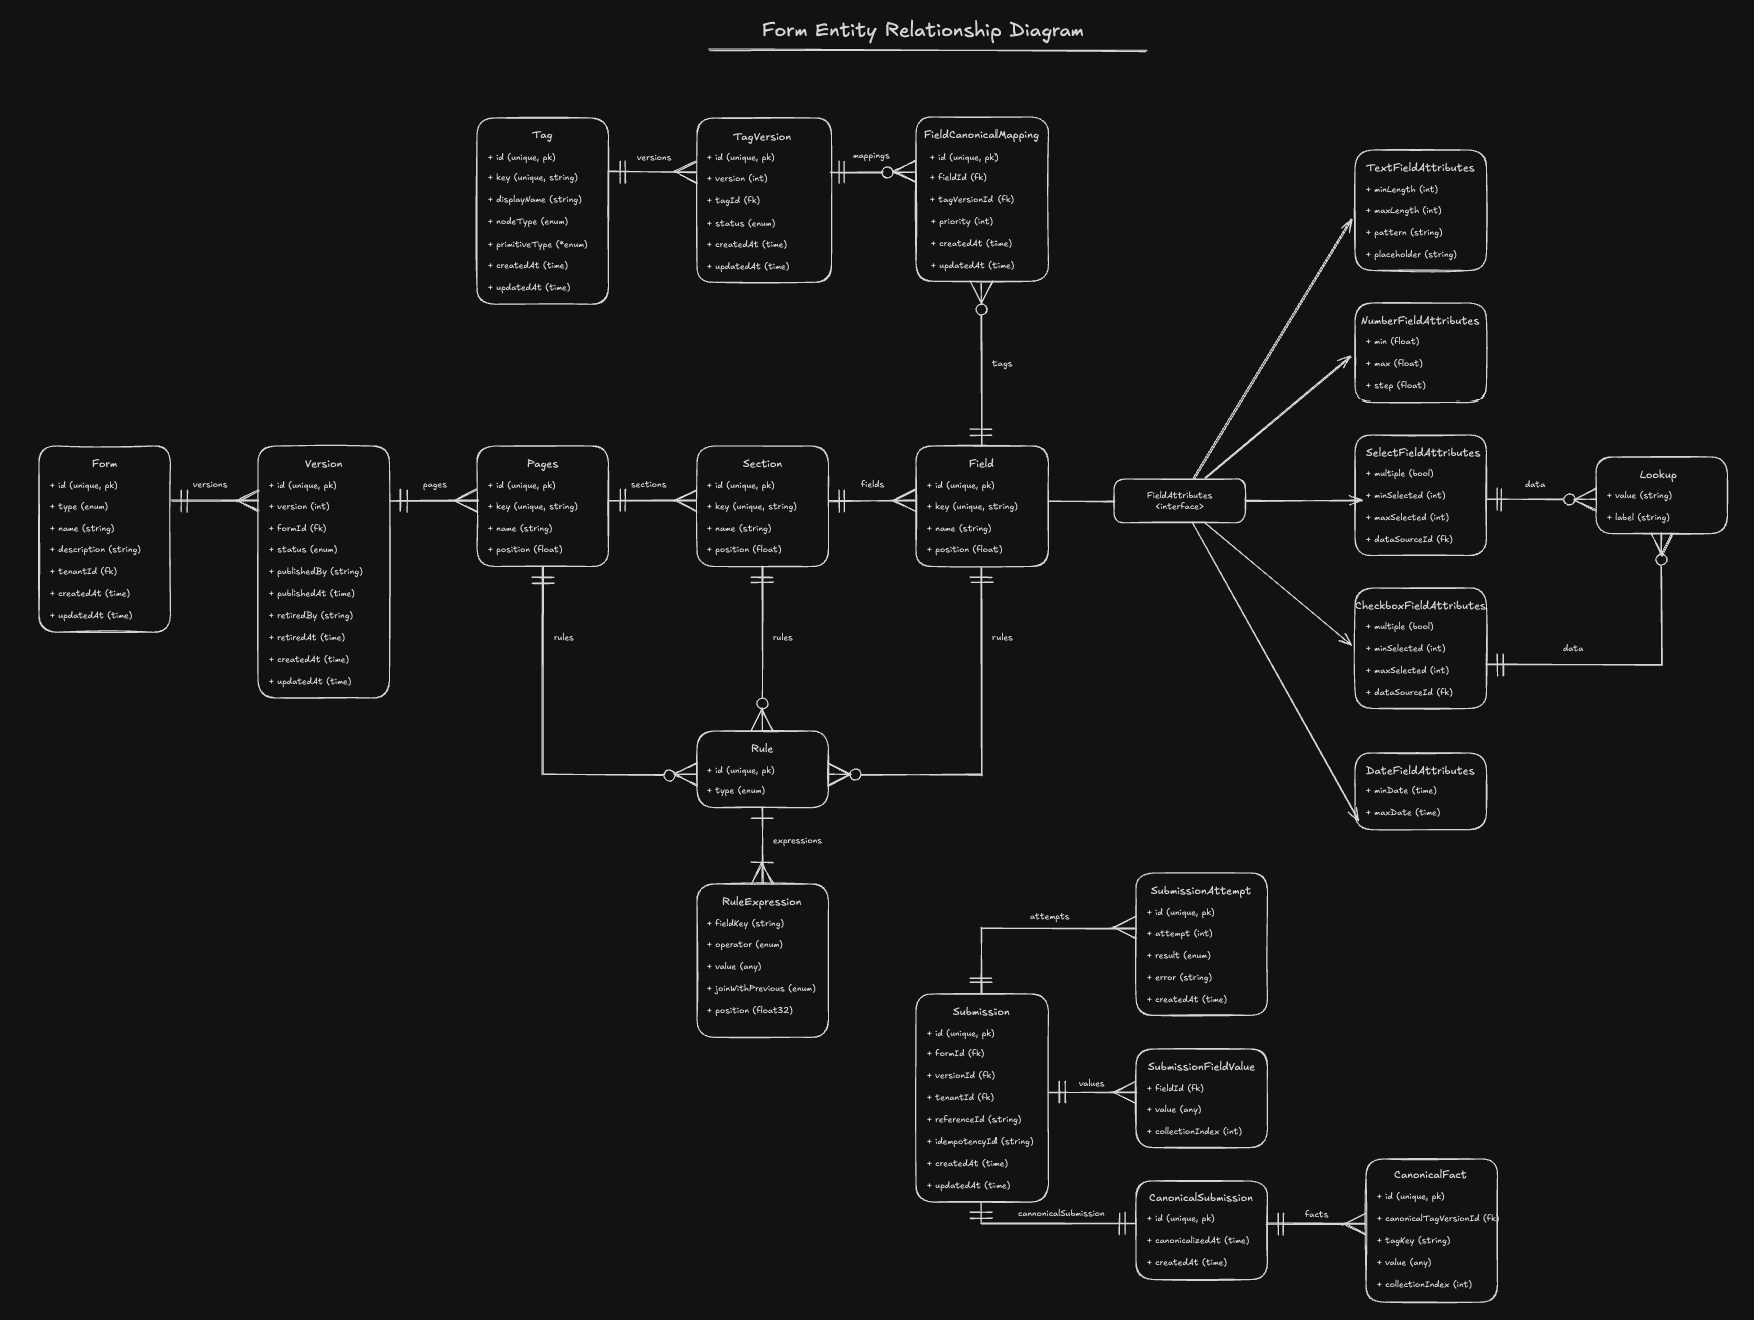
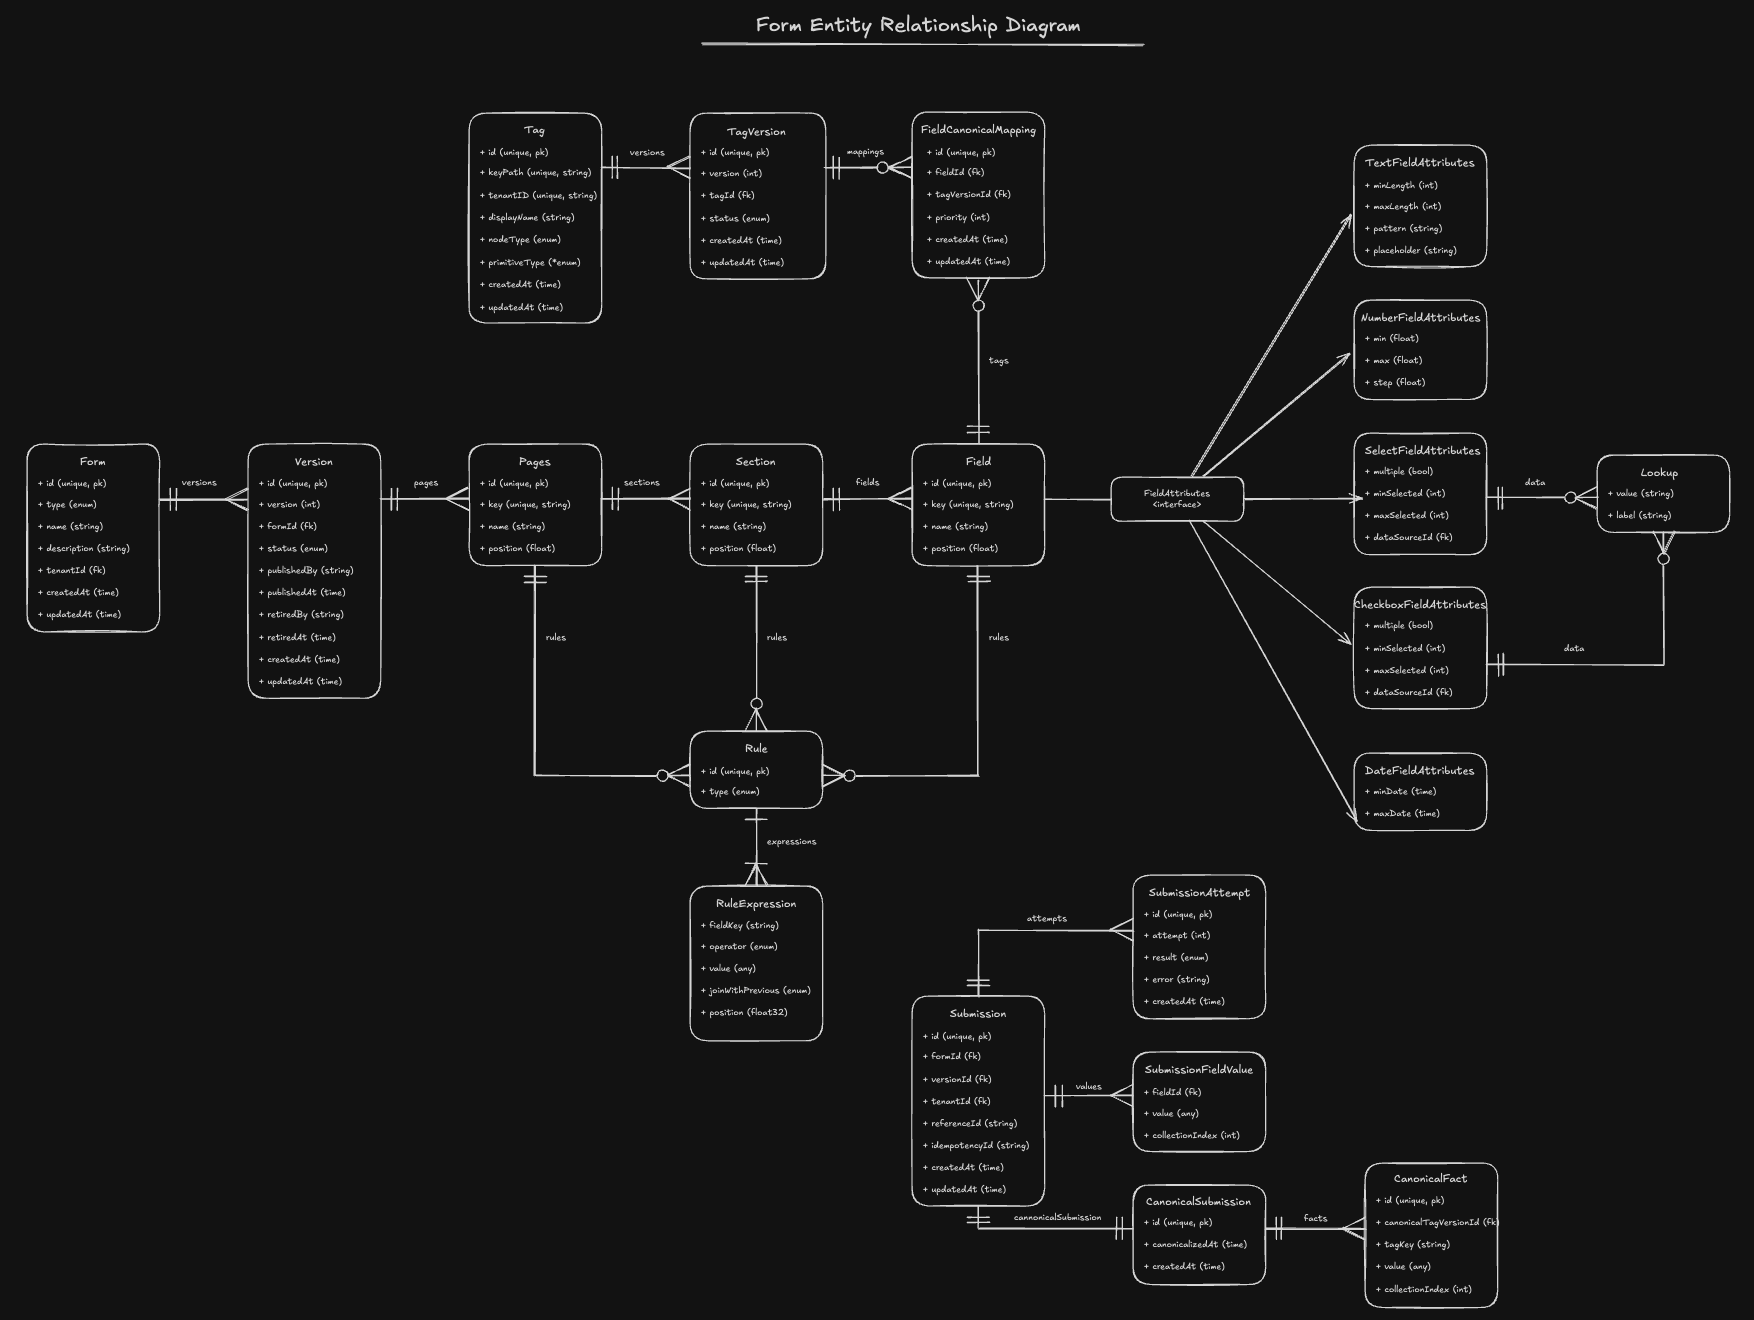
forms | update key to keyPath

diff --git a/backend/services/forms/internal/core/domain/tag.go b/backend/services/forms/internal/core/domain/tag.go
@@ -27,7 +27,7 @@ const (
 type Tag struct {
 	ID            TagID
 	TenantID      string
-	Key           string
+	KeyPath       string
 	DisplayName   string
 	NodeType      TagNodeType
 	PrimitiveType *TagPrimitiveType
@@ -35,7 +35,7 @@ type Tag struct {
 	UpdatedAt     time.Time
 }
 
-func NewTag(tenantID, key, displayName string, nodeType TagNodeType, primitiveType *TagPrimitiveType) (*Tag, error) {
+func NewTag(tenantID, keyPath, displayName string, nodeType TagNodeType, primitiveType *TagPrimitiveType) (*Tag, error) {
 	if !isTagValueKind(nodeType) {
 		return nil, ErrInvalidTagNodeType
 	}
@@ -47,7 +47,7 @@ func NewTag(tenantID, key, displayName string, nodeType TagNodeType, primitiveTy
 	ct := &Tag{
 		ID:            TagID(NewID()),
 		TenantID:      tenantID,
-		Key:           key,
+		KeyPath:       keyPath,
 		DisplayName:   displayName,
 		NodeType:      nodeType,
 		PrimitiveType: primitiveType,
@@ -64,7 +64,7 @@ func NewTag(tenantID, key, displayName string, nodeType TagNodeType, primitiveTy
 func HydrateTag(
 	id TagID,
 	tenantID,
-	key,
+	keyPath,
 	displayName string,
 	nodeType TagNodeType,
 	primitiveType *TagPrimitiveType,
@@ -74,7 +74,7 @@ func HydrateTag(
 	return &Tag{
 		ID:            id,
 		TenantID:      tenantID,
-		Key:           key,
+		KeyPath:       keyPath,
 		DisplayName:   displayName,
 		NodeType:      nodeType,
 		PrimitiveType: primitiveType,
@@ -102,7 +102,7 @@ func (t *Tag) Update(displayName string) error {
 }
 
 func (t *Tag) HasCollectionAncestor() bool {
-	return strings.Contains(t.Key, collectionSegment)
+	return strings.Contains(t.KeyPath, collectionSegment)
 }
 
 var isTagValueKind = validate.NewTypeValidator([]TagNodeType{

diff --git a/backend/services/forms/internal/adapters/persistence/mongodb/documents/tag.go b/backend/services/forms/internal/adapters/persistence/mongodb/documents/tag.go
@@ -8,7 +8,7 @@ import (
 type TagDocument struct {
 	ID            string    `bson:"_id"`
 	TenantID      string    `bson:"tenant_id"`
-	Key           string    `bson:"key"`
+	KeyPath       string    `bson:"key_path"`
 	DisplayName   string    `bson:"display_name"`
 	NodeType      string    `bson:"node_type"`
 	PrimitiveType *string   `bson:"primitive_type"`
@@ -26,7 +26,7 @@ func ToTagDocument(d *domain.Tag) TagDocument {
 	return TagDocument{
 		ID:            string(d.ID),
 		TenantID:      d.TenantID,
-		Key:           d.Key,
+		KeyPath:       d.KeyPath,
 		DisplayName:   d.DisplayName,
 		NodeType:      string(d.NodeType),
 		PrimitiveType: primitiveType,
@@ -45,7 +45,7 @@ func FromTagDocument(d TagDocument) *domain.Tag {
 	return domain.HydrateTag(
 		domain.TagID(d.ID),
 		d.TenantID,
-		d.Key,
+		d.KeyPath,
 		d.DisplayName,
 		domain.TagNodeType(d.NodeType),
 		primitiveType,

diff --git a/backend/services/forms/internal/adapters/rest/dto/tag.go b/backend/services/forms/internal/adapters/rest/dto/tag.go
@@ -6,7 +6,7 @@ import (
 )
 
 type CreateTagRequest struct {
-	Key           string  `json:"key"`
+	KeyPath       string  `json:"keyPath"`
 	DisplayName   string  `json:"displayName"`
 	NodeType      string  `json:"nodeType"`
 	PrimitiveType *string `json:"primitiveType"`
@@ -19,7 +19,7 @@ type UpdateTagRequest struct {
 
 type TagResponse struct {
 	ID            domain.TagID             `json:"id"`
-	Key           string                   `json:"key"`
+	KeyPath       string                   `json:"keyPath"`
 	DisplayName   string                   `json:"displayName"`
 	NodeType      domain.TagNodeType       `json:"nodeType"`
 	PrimitiveType *domain.TagPrimitiveType `json:"primitiveType"`
@@ -30,7 +30,7 @@ type TagResponse struct {
 func TagToResponse(ct *domain.Tag) TagResponse {
 	return TagResponse{
 		ID:            ct.ID,
-		Key:           ct.Key,
+		KeyPath:       ct.KeyPath,
 		DisplayName:   ct.DisplayName,
 		NodeType:      ct.NodeType,
 		PrimitiveType: ct.PrimitiveType,

diff --git a/backend/services/forms/internal/core/ports/commands/tag.go b/backend/services/forms/internal/core/ports/commands/tag.go
@@ -7,17 +7,17 @@ import (
 
 type CreateTagCommand struct {
 	TenantID      string             `validate:"required"`
-	Key           string             `validate:"required,nowhitespace"`
+	KeyPath       string             `validate:"required,nowhitespace"`
 	DisplayName   string             `validate:"required"`
 	NodeType      domain.TagNodeType `validate:"required"`
 	PrimitiveType *domain.TagPrimitiveType
 	IsCollection  bool
 }
 
-func NewCreateTagCommand(tenantID, key, displayName string, nodeType domain.TagNodeType, primitiveType *domain.TagPrimitiveType, isCollection bool) CreateTagCommand {
+func NewCreateTagCommand(tenantID, keyPath, displayName string, nodeType domain.TagNodeType, primitiveType *domain.TagPrimitiveType, isCollection bool) CreateTagCommand {
 	return CreateTagCommand{
 		TenantID:      tenantID,
-		Key:           key,
+		KeyPath:       keyPath,
 		DisplayName:   displayName,
 		NodeType:      nodeType,
 		PrimitiveType: primitiveType,

diff --git a/backend/services/forms/internal/adapters/persistence/mongodb/tags_repository.go b/backend/services/forms/internal/adapters/persistence/mongodb/tags_repository.go
@@ -17,8 +17,8 @@ var (
 	tagIndexes = []mongo.IndexModel{
 		{
 			Keys: bson.D{
-				{Key: "tenant_id", Value: 1},
-				{Key: "key", Value: 1},
+			{Key: "tenant_id", Value: 1},
+			{Key: "key_path", Value: 1},
 			},
 			Options: options.Index().SetUnique(true),
 		},

diff --git a/backend/services/forms/internal/core/services/submission_jobs_service.go b/backend/services/forms/internal/core/services/submission_jobs_service.go
@@ -355,7 +355,7 @@ func (s *submissionJobsService) evaluateCollectionCandidates(tag domain.Tag, ver
 		facts = append(facts, domain.NewCanonicalFact(
 			winner.ftm.FieldID,
 			version.ID,
-			tag.Key,
+			tag.KeyPath,
 			winner.value,
 			&idx,
 		))
@@ -370,7 +370,7 @@ func (s *submissionJobsService) evaluateScalarCandidates(tag domain.Tag, version
 	facts = append(facts, domain.NewCanonicalFact(
 		winner.ftm.FieldID,
 		version.ID,
-		tag.Key,
+		tag.KeyPath,
 		winner.value,
 		nil,
 	))

diff --git a/backend/services/forms/internal/adapters/rest/handlers/tag_handlers.go b/backend/services/forms/internal/adapters/rest/handlers/tag_handlers.go
@@ -127,7 +127,7 @@ func (h *Handlers) CreateTag(w http.ResponseWriter, r *http.Request) {
 
 	command := commands.NewCreateTagCommand(
 		tenantID,
-		body.Key,
+		body.KeyPath,
 		body.DisplayName,
 		domain.TagNodeType(body.NodeType),
 		primitiveType,

diff --git a/backend/services/forms/internal/core/services/tags_service.go b/backend/services/forms/internal/core/services/tags_service.go
@@ -76,7 +76,7 @@ func (s *tagsService) Create(ctx context.Context, cmd commands.CreateTagCommand)
 		return nil, err
 	}
 
-	tag, err := domain.NewTag(cmd.TenantID, cmd.Key, cmd.DisplayName, cmd.NodeType, cmd.PrimitiveType)
+	tag, err := domain.NewTag(cmd.TenantID, cmd.KeyPath, cmd.DisplayName, cmd.NodeType, cmd.PrimitiveType)
 	if err != nil {
 		s.logger.WarnContext(ctx, "tag creation failed; domain invariant violation", "tenant_id", cmd.TenantID, "error", err)
 		return nil, err